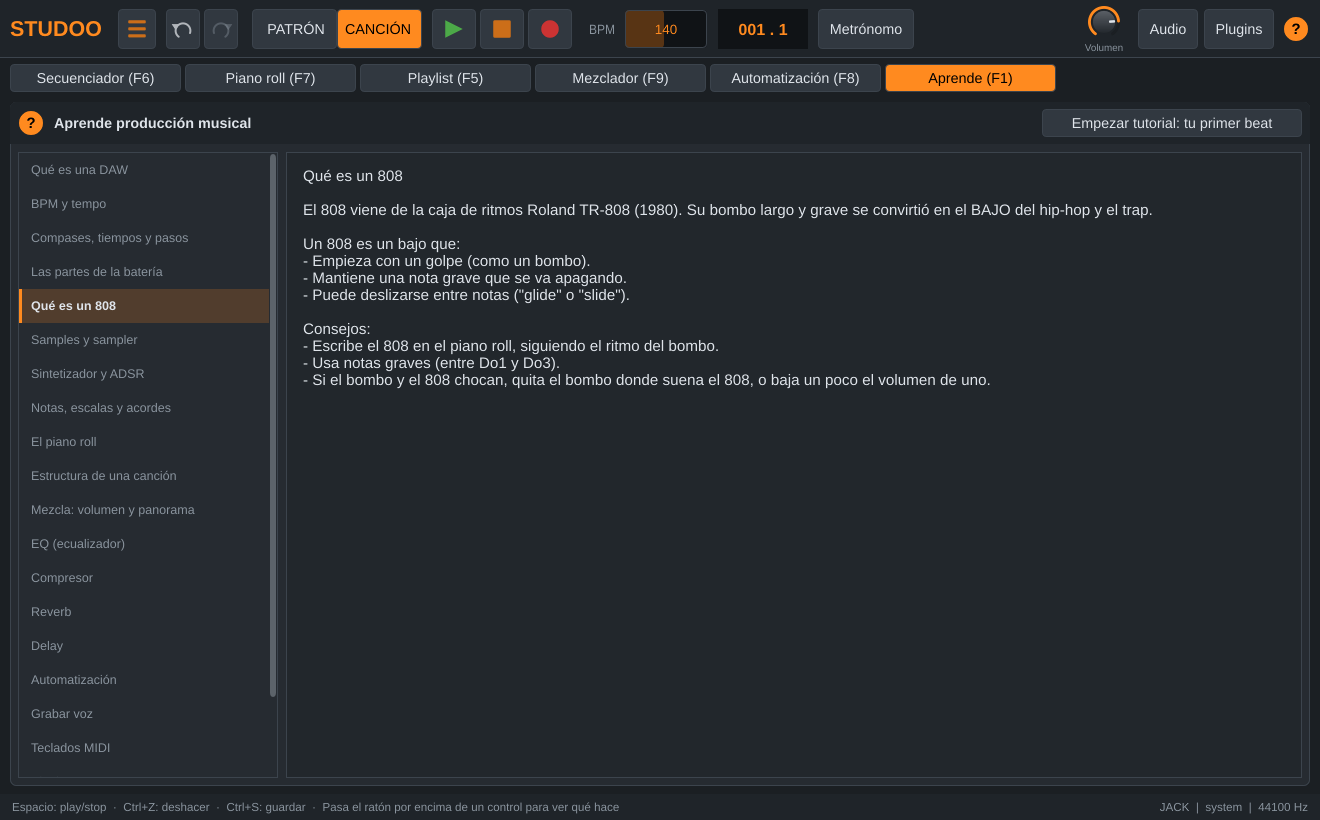
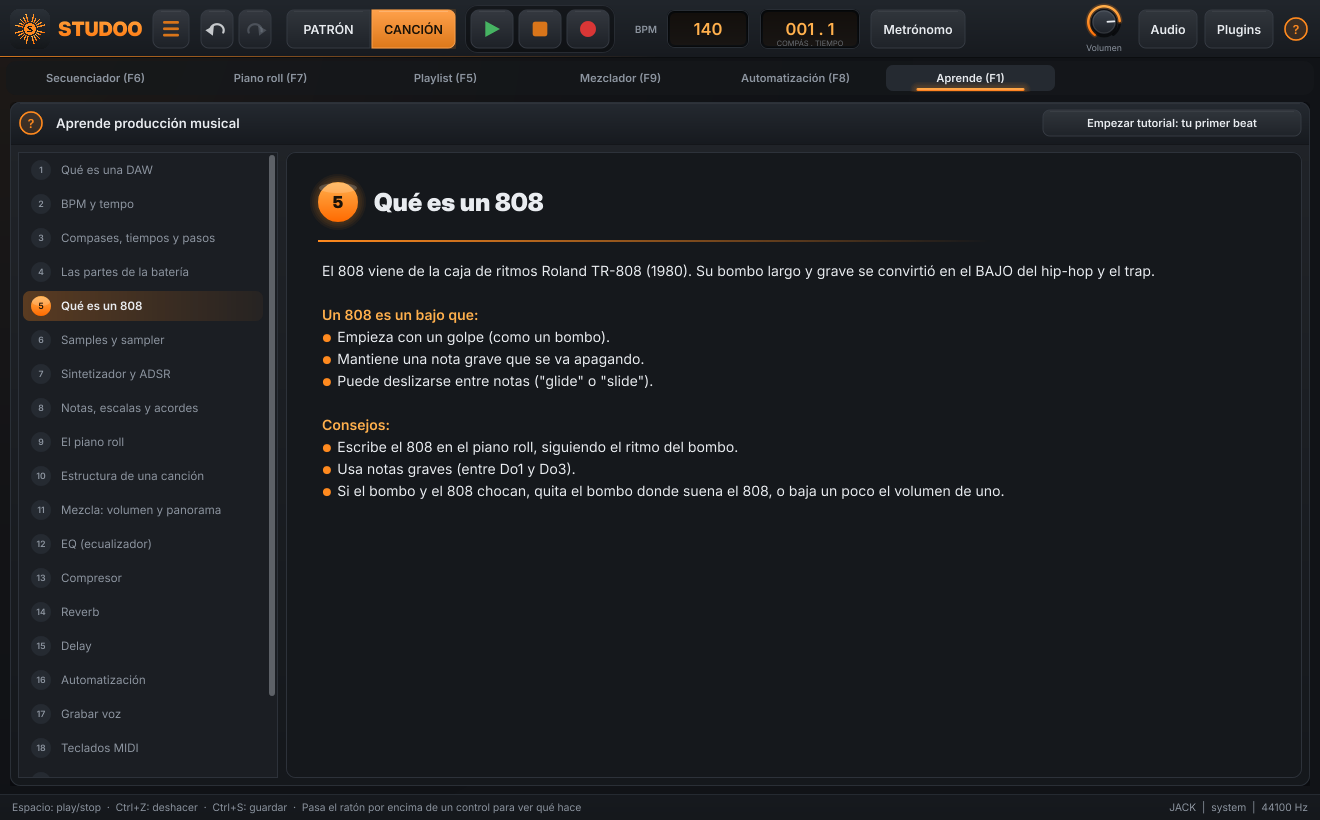
Versión 1.1.0: capturas nuevas en la portada y notas de la versión
Claude-Session: https://claude.ai/code/session_013xNEtzwP1tcvzHk1fe2wk8

diff --git a/.github/release-notes.md b/.github/release-notes.md
@@ -1,5 +1,11 @@
 ## 🎶 Studoo: tu estudio para hacer música y beats, en español
 
+### 🆕 Novedades de la versión 1.1
+- 🎨 **Diseño totalmente renovado**: fuente moderna, botones y ruedas con relieve, pasos que brillan como LEDs, pantallas LCD para el BPM y la posición, medidores de LEDs en el mezclador, teclado de piano realista y bloques de playlist con sombra.
+- ☀ **Logo nuevo** en la app, en la barra de tareas y en Studoo.exe.
+- 🎓 Apartado **Aprende** más bonito y fácil de leer.
+- 🐧 En Linux, los ajustes se guardan en la carpeta oculta `~/.config/Studoo`.
+
 ### 📥 Cómo instalarlo
 
 **Windows**
